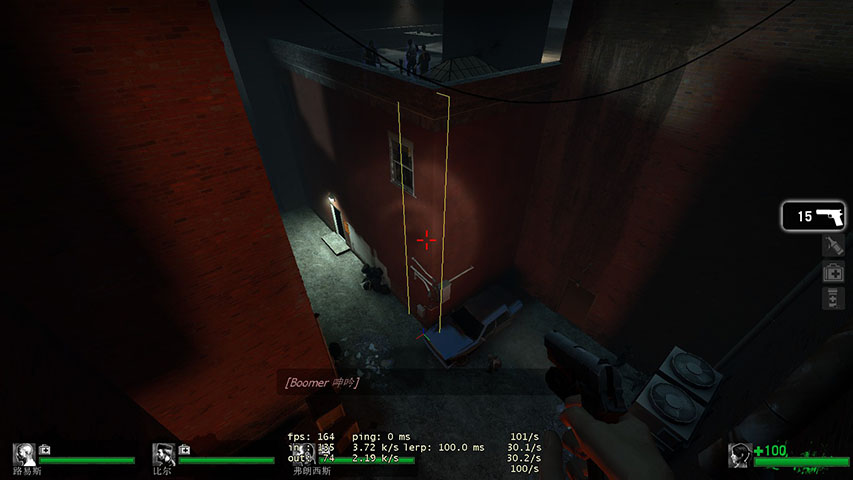
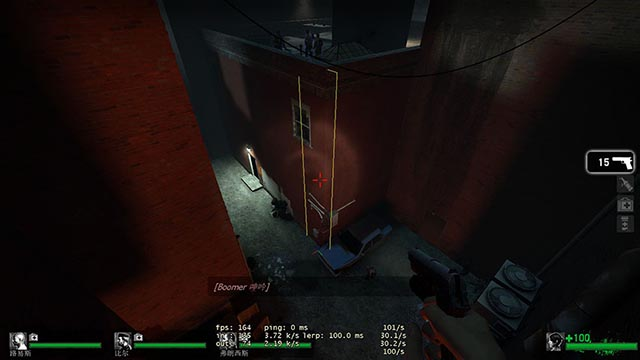
2024-1-5

diff --git a/地图修复 MapFix/stripper/fixmaps/README.md b/地图修复 MapFix/stripper/fixmaps/README.md
@@ -27,23 +27,28 @@
 ![alt A102a](./img/A102a.jpg)
 ![alt A102b](./img/A102b.jpg)
 ### 2. 地铁   The Subway
-- 大厦外墙BUG点修复
+- MiniGun替换MachineGun
 ![alt A201](./img/A201.jpg)
-- 大厦外墙BUG点修复
+- 大厦外墙BUG点修复  
 ![alt A202](./img/A202.jpg)
 ### 3. 下水道 The Sewer  
 - 开机关后，快速往前冲，不刷丧尸和感染者的BUG，需要安装 [机关尸潮修复插件](https://github.comZBzibing)
-- 车站卡坦克修复
+- 车站卡坦克修复  
 ![alt A301](./img/A301.jpg)
-- 救护车卡坦克修复
+- 救护车卡坦克修复  
 ![alt A302](./img/A302.jpg)
 ### 4. 医院   The Hospital
-- 移除部分卡住感染者墙壁
-![alt A401](./img/A401.jpg)
+- 修复部分卡住感染者墙壁  
+![alt A401](./img/A402.jpg)
 - 修复高空坠落玩家视角卡住BUG
-![alt A402](./img/A402.jpg)
 ### 5. 屋顶   Rooftop Finale
 - 修复高空坠落玩家视角卡住BUG
+- MiniGun替换MachineGun  
+![alt](./img/A501.jpg)
+- 屋顶BUG点  
+![alt](./img/A502.jpg)
+- 空调机BUG点  
+![alt](./img/A503.jpg)
 
 
 ## 坠机险途 Crash Course
